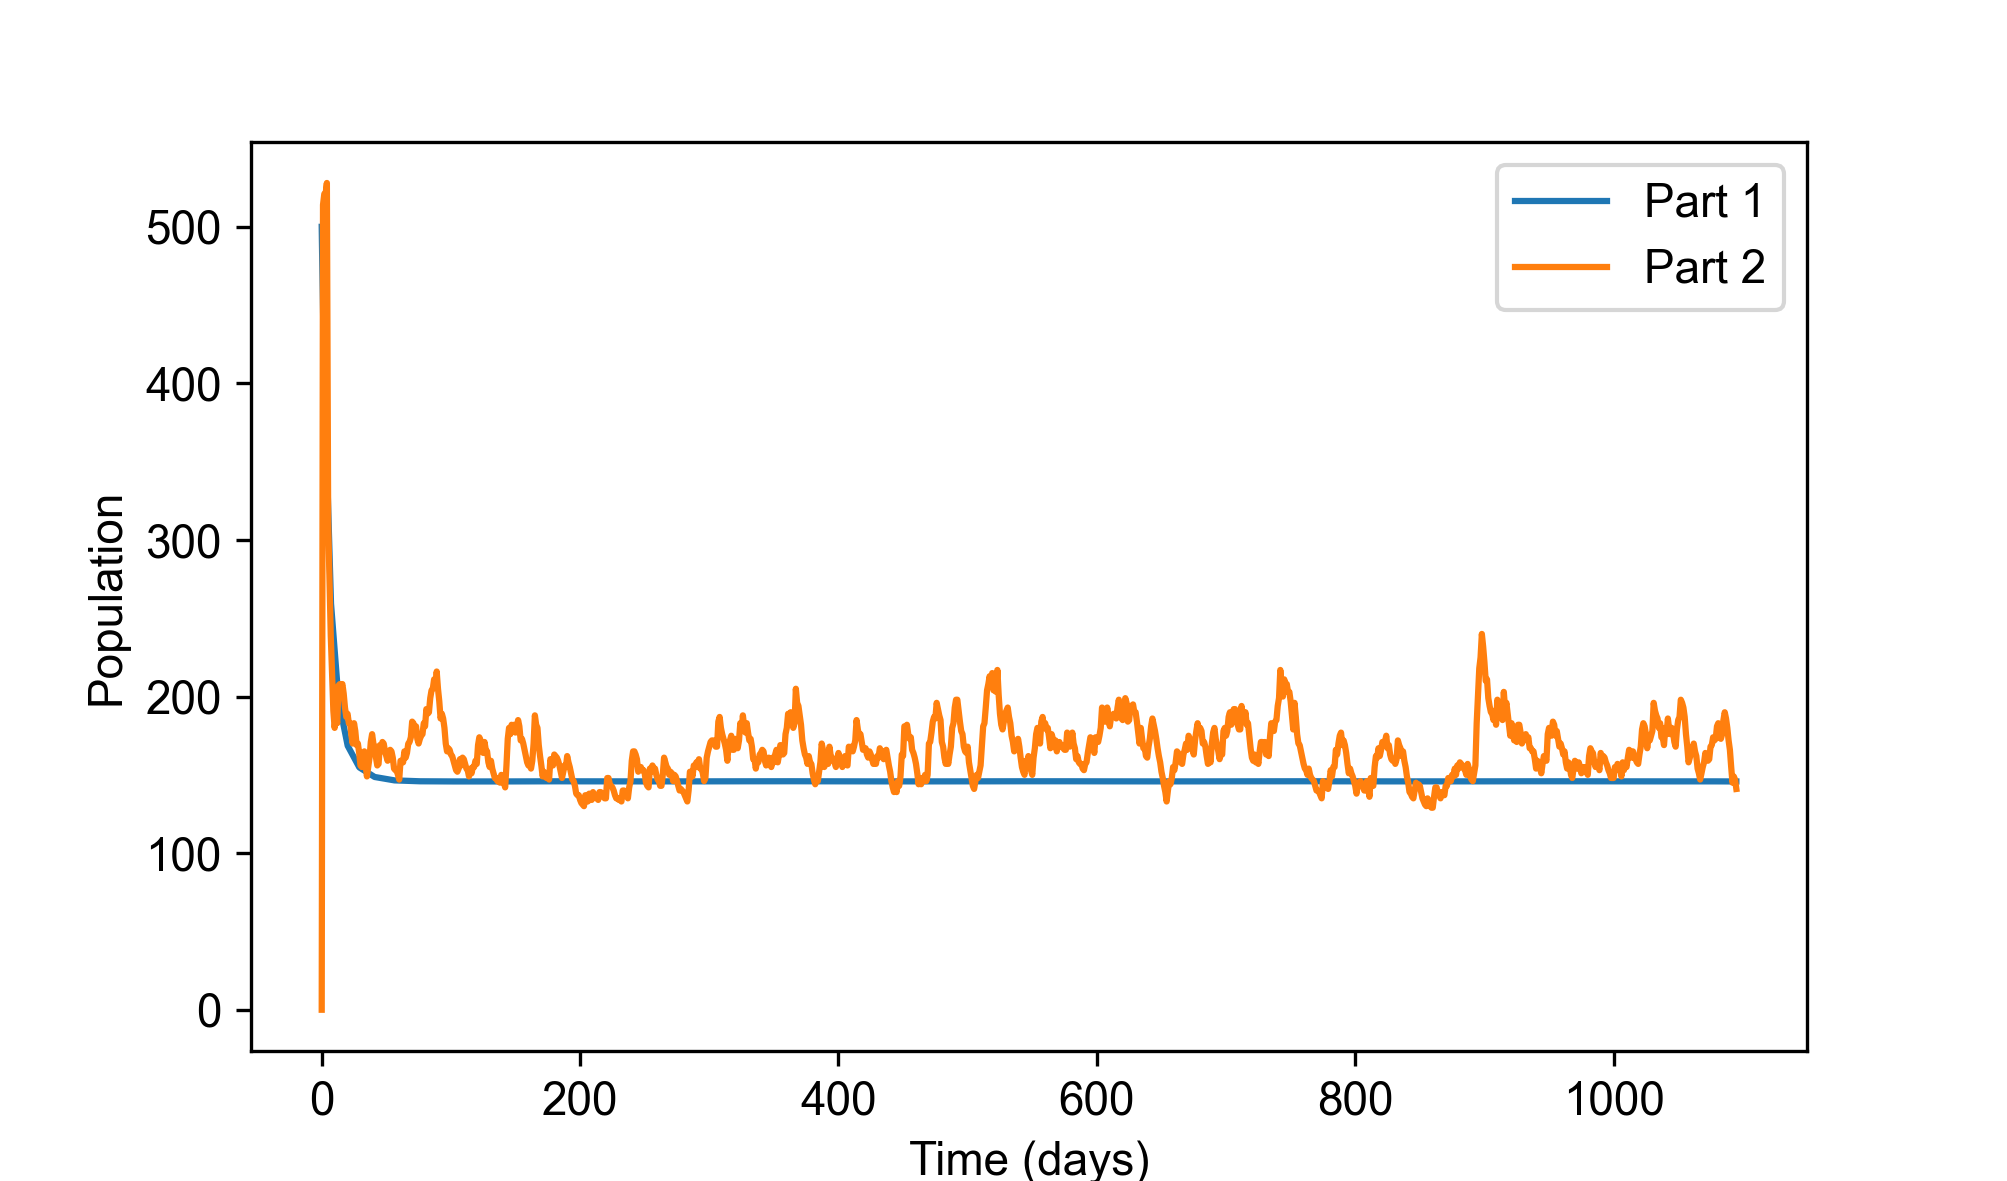
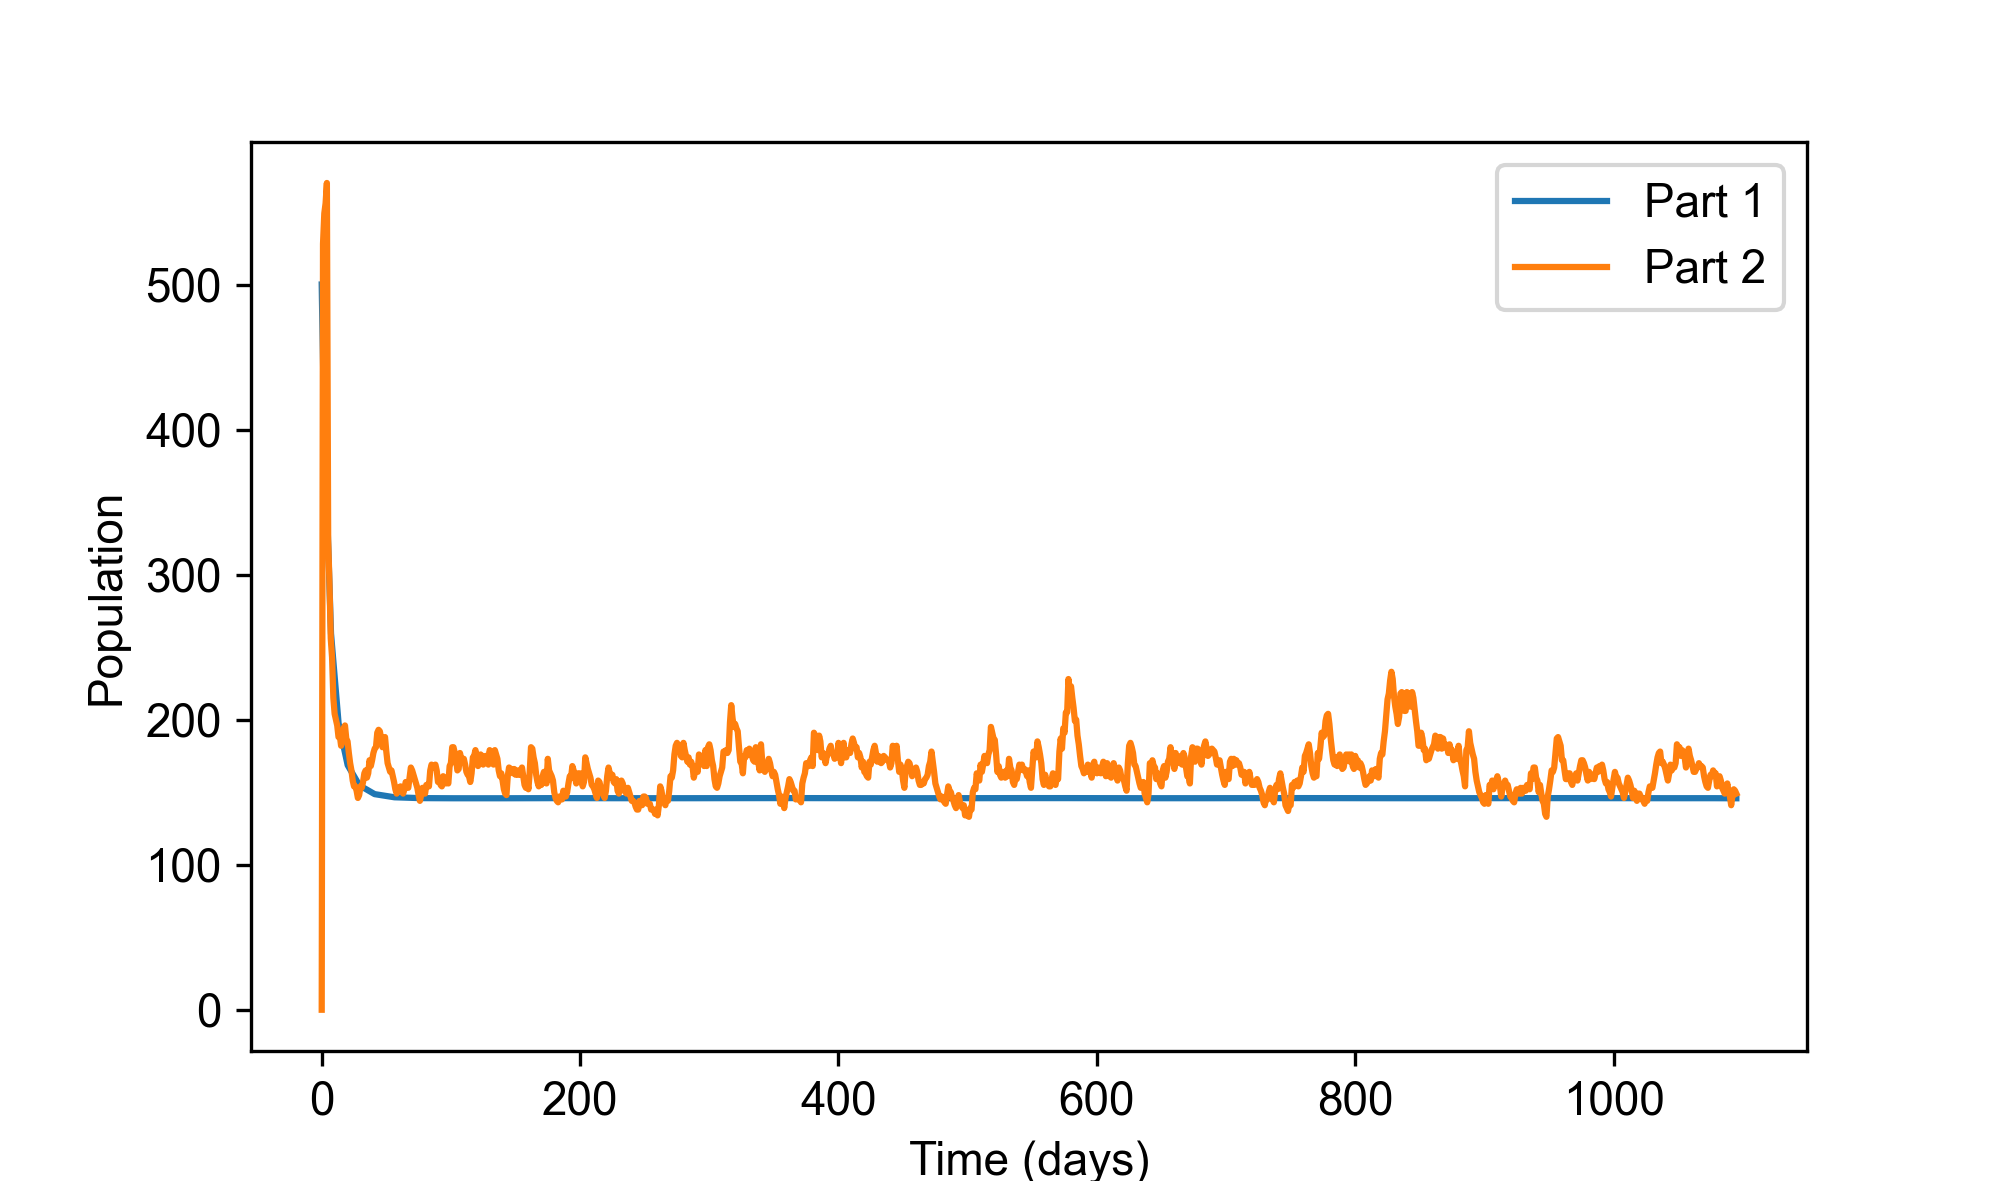
Erste Abgabe

diff --git a/mod/helper_functions.py b/mod/helper_functions.py
@@ -30,8 +30,7 @@ def return_d():
     Returns:
         float: The number of death per day.
     """
-    lifespan = 1/(2*365)
-    return lifespan
+    return 1/(2*365)
 
 # Death as a result of starvation
 
@@ -50,52 +49,33 @@ def return_f(N, F = 75):
 
 def get_weather(start_date, t):
 
-    data = np.load('data\weather_data.npy', allow_pickle=True).item()
+    data = np.load('data/weather_data.npy', allow_pickle=True).item()
     month = data['month']
     day = data['day']
     snow = data['snow']
     temp = data['temp']
+
     month_convert = np.array(month, int)
     snow_convert = np.array(snow, float)
     temp_convert = np.array(temp, float)
 
-
-
-    if t > 364:
-        exit()
-
-    date_check = start_date.split("-", 1)
-
-    if int(date_check[0]) >= 11:
-        current_year = "2022"
-    else:
-        current_year = "2023"
-
     date_format = "%m-%d"
-    date = datetime.strptime(
-        start_date + '-' + current_year, date_format + '-%Y')
+    date = datetime.strptime(start_date, date_format)
     temp = date + timedelta(days=t)
     new_date = temp.strftime(date_format)
-
-    tempdate = datetime.strptime("11-01-2023", date_format + '-%Y')
-    tempdate2 = datetime.strptime("10-31-2022", date_format + '-%Y')
-
-    if temp >= tempdate or temp <= tempdate2:
-        print("date is out of bound")
-        sys.exit(0)
 
     if new_date == "02-29":
         new_date = "02-28"
 
-    month_index = new_date.split("-", 1)
+    month_index = new_date.split("-",1)
 
     i = 0
     while month[i] != month_index[0]:
         i += 1
 
-    index = i + int(month_index[1]) - 1
-    data_values = np.array([snow_convert[index], temp_convert[index]])
-    return data_values
+    index = i + int(month_index[1]) -1
+    snow_depth, temp = np.array([snow_convert[index], temp_convert[index]])
+    return snow_depth, temp
 
 
 def function(x, L, k, x0):
@@ -131,6 +111,9 @@ def fit_d_sd():
 
 def get_d(snow_depth, data=None):
 
+
+
+
     if data is None:
         data = np.load('data/fit_d_sd_parameters.npy', allow_pickle=True)
     
@@ -152,59 +135,57 @@ def load_data():
 def fit_f_sd_T():
 
     X, Y, Z = load_data()
-
+    
     X = X.reshape(-1, 1)
     Y = Y.reshape(-1, 1)
     Z = Z.reshape(-1, 1)
 
     matrix = np.concatenate((X, Y), axis=1)
-    X_train, X_test, y_train, y_test = train_test_split(
-        matrix, Z, test_size=0.2, random_state=42)
+    X_train, X_test, y_train, y_test = train_test_split(matrix, Z, test_size=0.2, random_state=42)
 
-    mlp_regressor = MLPRegressor(hidden_layer_sizes=(
-        100, 100), activation='relu', solver='adam', alpha=0.001, max_iter=2000, random_state=1)
+    mlp_regressor = MLPRegressor(hidden_layer_sizes=(100, 100), activation='relu', solver='adam',alpha=0.001, max_iter=2000, random_state=1)
     y_temp = y_train.ravel()
     mlp_regressor.fit(X_train, y_temp)
     print('It took', mlp_regressor.n_iter_, 'iterations to fit the MLP model!')
 
-    y_test_pred = mlp_regressor.predict(X_test)
+    z_pred = mlp_regressor.predict(X_test)
+   
+    squared_error = mean_squared_error(y_test, z_pred)
+    absolute_error = mean_absolute_error(y_test, z_pred)
 
-    squared_error = mean_squared_error(y_test, y_test_pred)
-    absolute_error = mean_absolute_error(y_test, y_test_pred)
+    score = mlp_regressor.score(X_train, y_train)
 
     fig = plt.figure(figsize=(10, 6))
     ax = fig.add_subplot(111, projection='3d')
-    ax.scatter(X_train[:, 0], X_train[:, 1], y_train,
-               color='blue', label='Train Data')
-    ax.scatter(X_test[:, 0], X_test[:, 1], y_test_pred,
-               color='red', label='Test Data')
+    ax.scatter(X_train[:, 0], X_train[:, 1], y_train, color='blue', label='Train Data')
+    ax.scatter(X_test[:, 0], X_test[:, 1], y_test, color='red', label='Test Data')
 
-    ax.set_title('Non-linear Regression with MLP Regressor')
     ax.set_xlabel('Snow Depth', fontsize=9)
     ax.set_ylabel('Temperature', fontsize=9)
     ax.set_zlabel('Food for N lemmings', fontsize=9)
-    ax.set_title(f"Squared Error: {
-                 squared_error:.3f} / Absolute Error: {absolute_error:.3f}", fontsize=8)
+    ax.set_title(f"Squared Error: {squared_error:.2f} / Absolute Error: {absolute_error:.2f} / Score: {score:.2f}", fontsize=8)
     ax.grid(True)
     ax.legend()
     plt.savefig('exp/f_sd_T_fit.png', dpi=1200)
-    np.save('data/model_f.npy', mlp_regressor, allow_pickle=True)
+    np.save('data/model_f', mlp_regressor, allow_pickle=True)
 
 
 
 
 def get_f(snow_depth, temp, data=None):
 
-    food_model = data
 
-
-    if food_model is None:
-        food_model = np.load("data/model_f.npy", allow_pickle=True).item() 
-
-    snow_depth_array = np.array(snow_depth).reshape(-1, 1)
-    temp_array = np.array(temp).reshape(-1, 1)
-
-    # Kombinieren der Arrays
-    input_data = np.concatenate((snow_depth_array, temp_array), axis=1)
-    food = food_model.predict(input_data)
-    return food
+    if snow_depth > 1 or snow_depth < 0.002002002002002002:
+        print("snow_depth is outside the calibrated range of values")
+        
+    if temp > 30 or temp < -29.81981981981982:
+        print("temperature is outside the calibrated range of values")
+    
+    if data is None:
+        food_model = np.load('data/model_f.npy', allow_pickle=True).item()
+        food = food_model.predict(np.array([[snow_depth, temp]]))
+        return food
+    else:
+        food_model = data
+        food = food_model.predict(np.array([[snow_depth, temp]]))
+        return food

diff --git a/Lemming_AnLuMe.py b/Lemming_AnLuMe.py
@@ -16,13 +16,8 @@ def population_balance(t, N):
 N_INIT = 500
 SIM_TIME = 3 * 365
 
-# Parameter definitions
-save_interval = 200                   # Save interval [s]
 
-# Start at t_0 go with save_interval steps until t_end is reached
-t_save = np.arange(0, SIM_TIME, save_interval)
-
-sol = solve_ivp(fun=population_balance, t_span=(0, SIM_TIME), y0=np.array([N_INIT,]),
+sol = solve_ivp(fun=population_balance, t_span=(0, SIM_TIME), y0=np.array([N_INIT]),
                 method='RK45')
 
 # Plot the solution
@@ -70,25 +65,44 @@ plt.savefig('./exp/part2.png', dpi=300)
 
 
 # %% Part 3
-
-data = np.load('data/f_sd_T.npy', allow_pickle=True).item()
-
-
-# mod.fit_d_sd()
-r = mod.get_d(0.18, data=None)
-
 # mod.fit_f_sd_T()
-F = mod.get_f(0.18, 0.104167, data=None)
+# mod.fit_d_sd()
+
+
+def population_balance(t, N):
+
+    snow_depth, temp = mod.get_weather("01-01", t)
+
+    food = mod.get_f(snow_depth, temp)
+    death_rate = mod.get_d(snow_depth)
+
+    if death_rate < mod.return_d():
+        death_rate = mod.return_d()
+
+    dNdt = N * (mod.return_b() - death_rate - mod.return_f(N, food))
+
+    return dNdt
+
+
+sol = solve_ivp(fun=population_balance, t_span=(0, SIM_TIME), y0=np.array([N_INIT], ),
+                method='RK45')
+
 
 L = [Lemming() for _ in range(N_INIT)]
 lemming_population = np.empty(1)
+
 for day in range(SIM_TIME):
 
-    mod.get_weather("01-01", dayt)
+    snow_depth, temp = mod.get_weather("01-01", day)
     current_population = len(L)
     new_lemmings = []
+    death_prop_model = mod.get_d(snow_depth)
+    food_model = mod.get_f(snow_depth, temp)
+
     for lemming in L:
-        alive, reproduce = lemming.live_a_day(current_population)
+
+        alive, reproduce = lemming.live_a_day(
+            current_population, death_prop_model, food_model)
         if alive:
             new_lemmings.append(lemming)
         for _ in range(reproduce):
@@ -96,7 +110,18 @@ for day in range(SIM_TIME):
     L = new_lemmings
     lemming_population = np.append(lemming_population, len(L))
 
+fig, ax = plt.subplots(figsize=(17/2.54, 10/2.54))
+fig, ax = plt.subplots(figsize=(17/2.54, 10/2.54))
+ax.plot(sol.t, sol.y[0], label='Part 1 with data model')
+ax.plot(lemming_population, label='Part 2 with data model')
+ax.set_xlabel('Time (days)')
+ax.set_ylabel('Population')
+ax.legend()
 
+font_properties = {'family': 'Arial', 'size': 11}
+plt.rc('font', **font_properties)
+
+plt.savefig('./exp/part3.png', dpi=300)
 
 
 # %%

diff --git a/mod/lemming.py b/mod/lemming.py
@@ -1,29 +1,26 @@
 import random
 
+
 class Lemming:
     def __init__(self):
         self.age = 0
         self.toughness = 5
         self.last_eaten = 0
 
-    def check_dead(self, death_probability = None):
+    def check_dead(self, death_probability):
         # Calculate the probability of death for a given day
-        
         if death_probability is None:
-            death_probability = self.age/365*2  # Adjust the constant as needed
-
+            death_probability = self.age/(365*2)  # Adjust the constant as needed
         return random.random() < death_probability
-        
+
     def check_reproduce(self):
         givebirth_porp = 2.5/(365*2)
         if random.random() < givebirth_porp:
             return 7
         else:
             return 0
-        
-    def check_food(self,N, food = 75):
-        
 
+    def check_food(self, N, food):
         if N <= food:
             return True
         else:
@@ -33,11 +30,21 @@ class Lemming:
             else:
                 return False
 
-    def live_a_day(self,N):
+    def live_a_day(self, N, death_probability=None, food=75):
         # Check if the lemming survives the day
-        alive = not self.check_dead()
+
+
+        if death_probability is not None:
+            if death_probability > self.age/(365*2):
+                alive = not self.check_dead(death_probability)
+            else: 
+                 alive = not self.check_dead(self.age/(365*2))   
+        else:
+            alive = not self.check_dead(death_probability)
+
+
         reproduce = self.check_reproduce()
-        if not self.check_food(N):
+        if not self.check_food(N, food):
             self.last_eaten += 1
         else:
             self.last_eaten = 0
@@ -47,5 +54,3 @@ class Lemming:
         else:
             reproduce = 0
             return alive, reproduce
-
-
